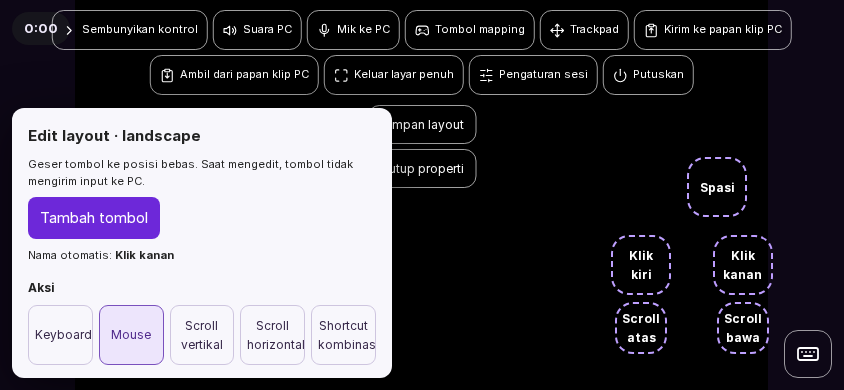
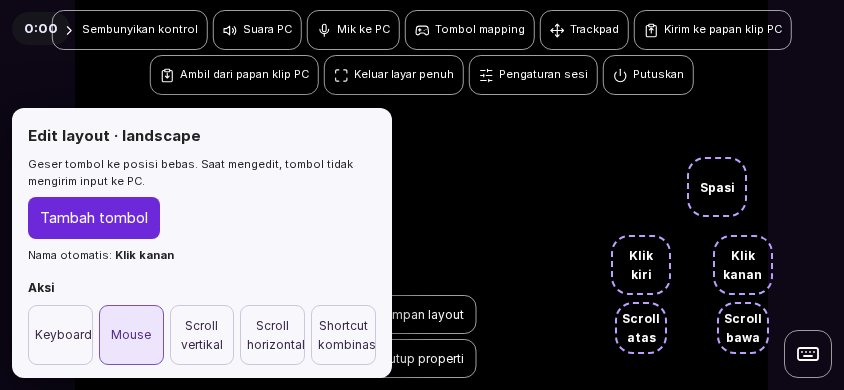
jaga akses panel portrait dan uji target FPS serta wallpaper otomatis
Izin: SESI-20260919-OPERATOR-UXFINISH

diff --git a/web/src/style.css b/web/src/style.css
@@ -2951,3 +2951,6 @@ img{-webkit-touch-callout:none;user-select:none;-webkit-user-select:none}
 .srail-keyboard{position:absolute;right:max(12px,env(safe-area-inset-right));bottom:max(12px,env(safe-area-inset-bottom));z-index:45;min-width:48px;min-height:48px;border:1px solid #fff9;background:transparent;color:white;border-radius:14px}.srail-keyboard svg{width:24px;height:24px}
 .video-surface .vkb{z-index:60;max-height:75dvh}.vkb-dismiss{position:sticky;top:0;z-index:2}.video-surface:has(.srail.compact) .mapping-tools{top:56px}
 @media(orientation:landscape) and (max-height:500px){.vkb-key{min-height:30px}.vkb-row{gap:3px}.vkb{gap:3px}}
+.video-surface .mapping-tools,.video-surface:has(.srail.compact) .mapping-tools{top:auto;bottom:max(12px,env(safe-area-inset-bottom))}
+.video-surface .spanel,.video-surface .spanel:not(.no-rail){z-index:70;right:max(12px,env(safe-area-inset-right));top:60px;bottom:12px;width:min(440px,calc(100% - 24px));max-height:calc(100% - 72px)}
+.video-surface .mapping-editor{z-index:65}

diff --git a/web/test/rtc.test.js b/web/test/rtc.test.js
@@ -318,3 +318,4 @@ test('network bye permits reconnect but owner bye and 1008 do not',async()=>{
  }
  const {session,sockets}=setup();await session.start('jwt','123456789','password');sockets[0].onclose({code:1008});assert.equal(session.reconnectAllowed,false);session.stop();
 });
+test('FPS command requires advertised host capability and serializes selected target',()=>{const {session}=setup();const sent=[];session.sendInput=b=>sent.push(Array.from(b));session.setFps(60);assert.equal(sent.length,0);session.meta={video:{fpsControl:true}};session.setFps(60);session.setFps(30);assert.deepEqual(sent,[[15,60],[15,30]]);session.meta={video:{fpsLimit:30}};session.setFps(60);assert.equal(sent.length,2);});
